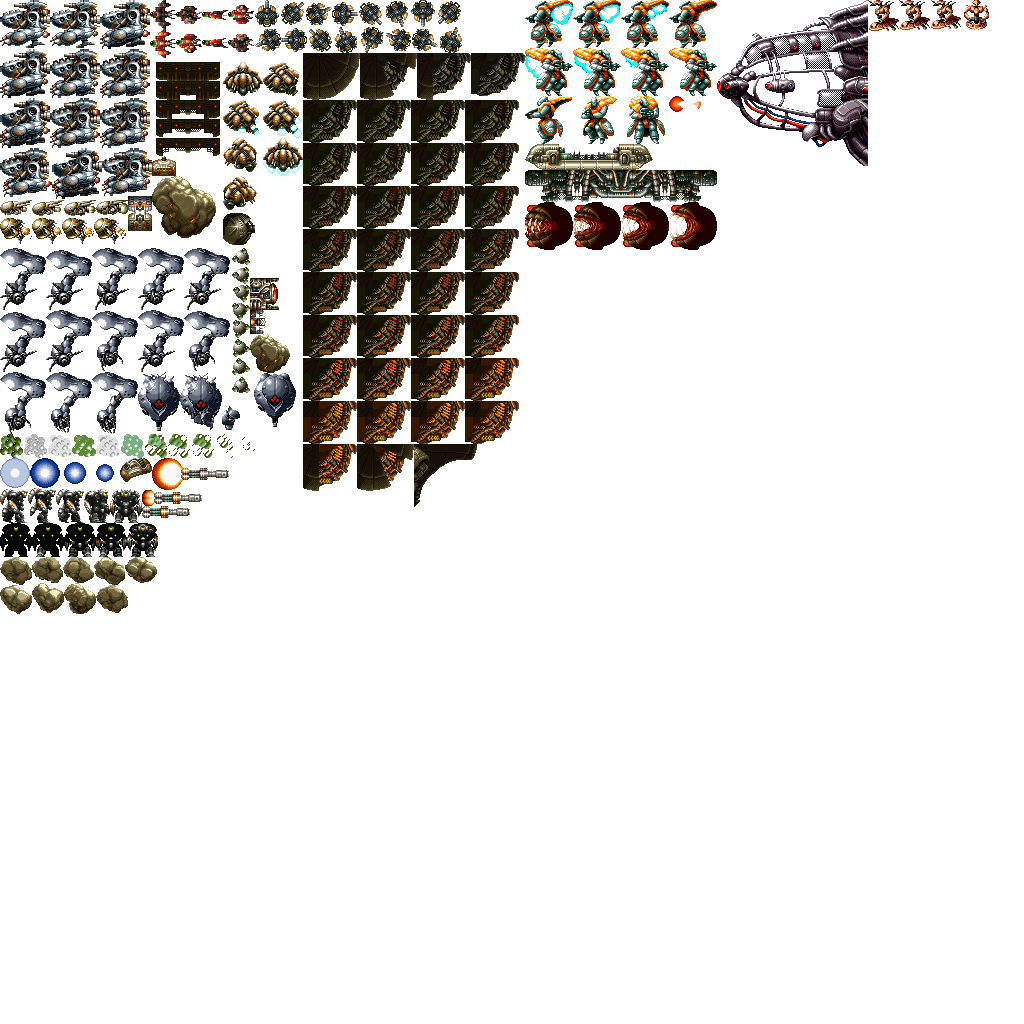
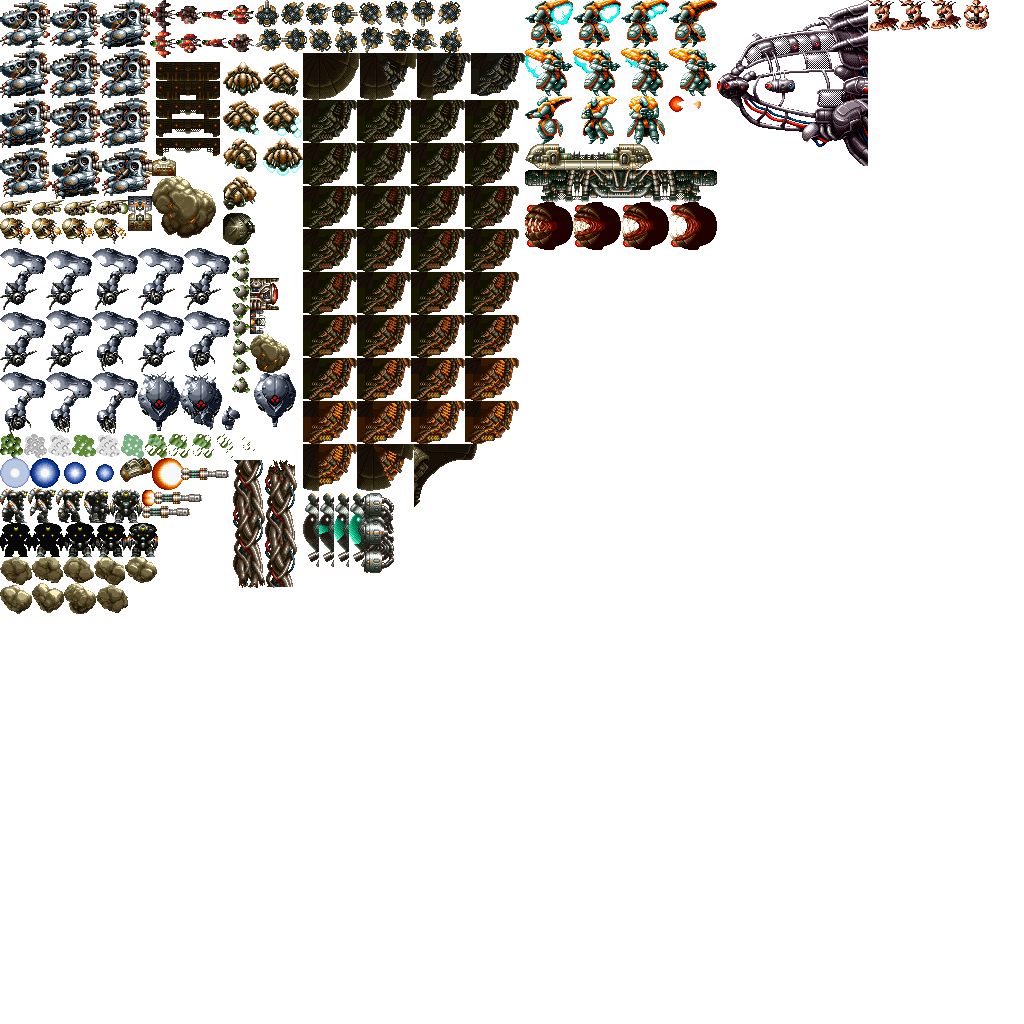
Adding bar guardian

Changed region(s): [[0.2188, 0.4375, 0.4062, 0.5938]]

diff --git a/LastResort/Enemy_Bar_Guardian.cpp b/LastResort/Enemy_Bar_Guardian.cpp
@@ -14,7 +14,9 @@ Enemy_BarGuardian::Enemy_BarGuardian(int x, int y, float hp, int scoreValue, POW
 	//Render layer----------------------------------
 	renderLayer = 0;
 	//Collider--------------------------------------
-	collider = App->collision->AddCollider({ x - 14 , y - 14, 28, 28 }, COLLIDER_TYPE::COLLIDER_ENEMY_LIGHT, (Module*)App->enemies);
+	collider  = App->collision->AddCollider({ x - 14 , y - 14, 28, 28 }, COLLIDER_TYPE::COLLIDER_ENEMY_LIGHT, (Module*)App->enemies);
+	topBarCol = App->collision->AddCollider({ x - 14 , y - 14, 28, 28 }, COLLIDER_TYPE::COLLIDER_WALL);
+	botBarCol = App->collision->AddCollider({ x - 14 , y - 14, 28, 28 }, COLLIDER_TYPE::COLLIDER_WALL);
 }
 
 void Enemy_BarGuardian::Move()
@@ -80,4 +82,9 @@ void Enemy_BarGuardian::Draw(SDL_Texture* sprites)
 	//Blit back part
 	App->render->Blit(sprites, position.x, position.y - backAnim.h / 2, &backAnim);
 	//Blit eye
+}
+
+Enemy_BarGuardian::~Enemy_BarGuardian()
+{
+
 }

diff --git a/LastResort/Enemy_Bar_Guardian.h b/LastResort/Enemy_Bar_Guardian.h
@@ -16,6 +16,7 @@ class Enemy_BarGuardian : public Enemy
 {
 public:
 	Enemy_BarGuardian(int x, int y, float hp, int scoreValue, POWERUP_TYPE powerupDrop);
+	~Enemy_BarGuardian();
 	void Move();
 	void Draw(SDL_Texture* sprites);
 	void OnCollision(Collider* c2);
@@ -29,6 +30,8 @@ private:
 	SDL_Rect topBarAnim;
 	SDL_Rect botBarAnim;
 	SDL_Rect backAnim;
+	Collider* topBarCol = nullptr;
+	Collider* botBarCol = nullptr;
 };
 
 #endif // __ENEMY_BAR_GUARDIAN_H__
